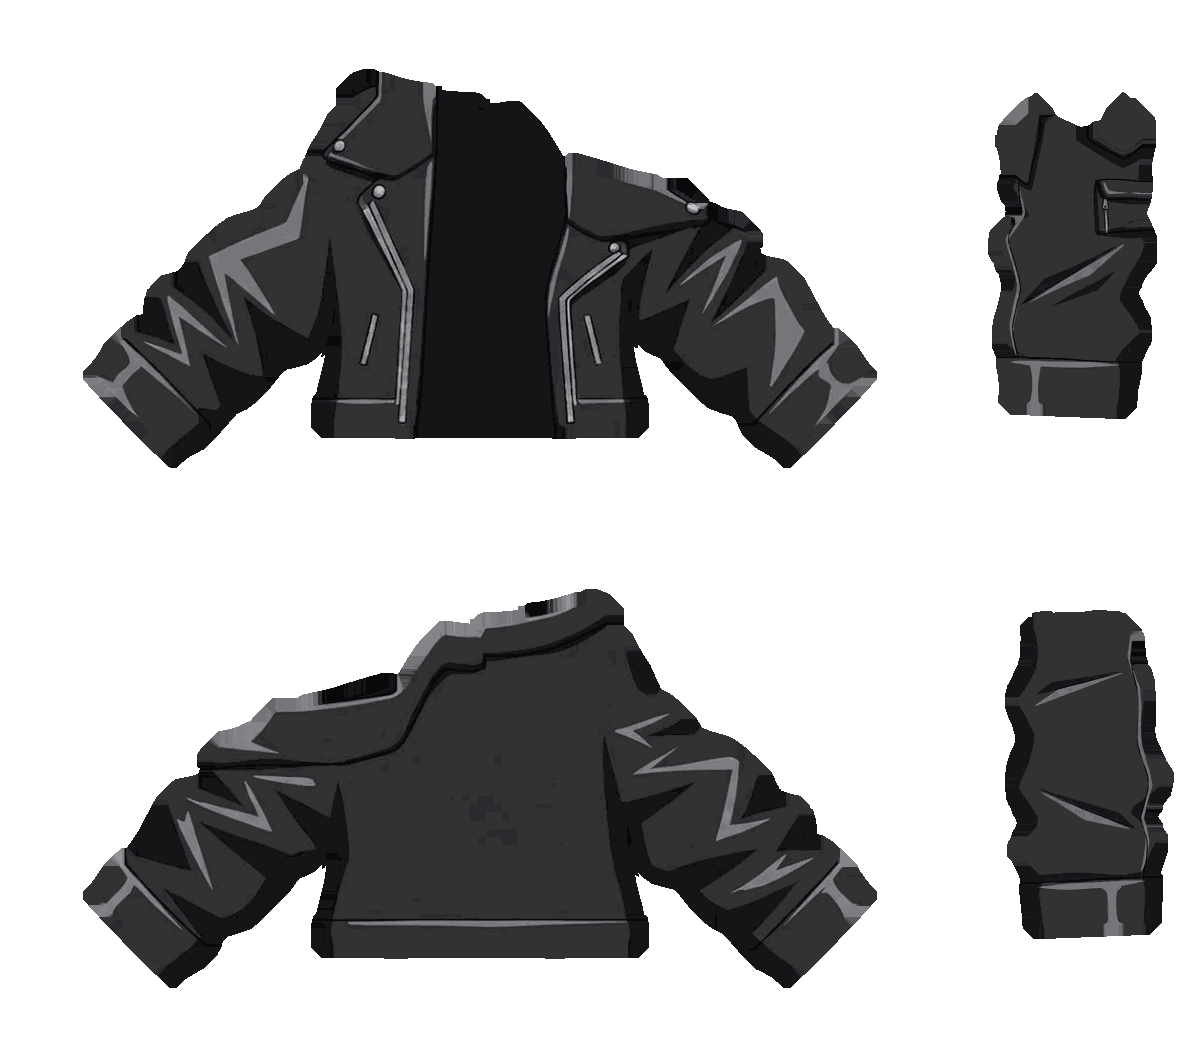
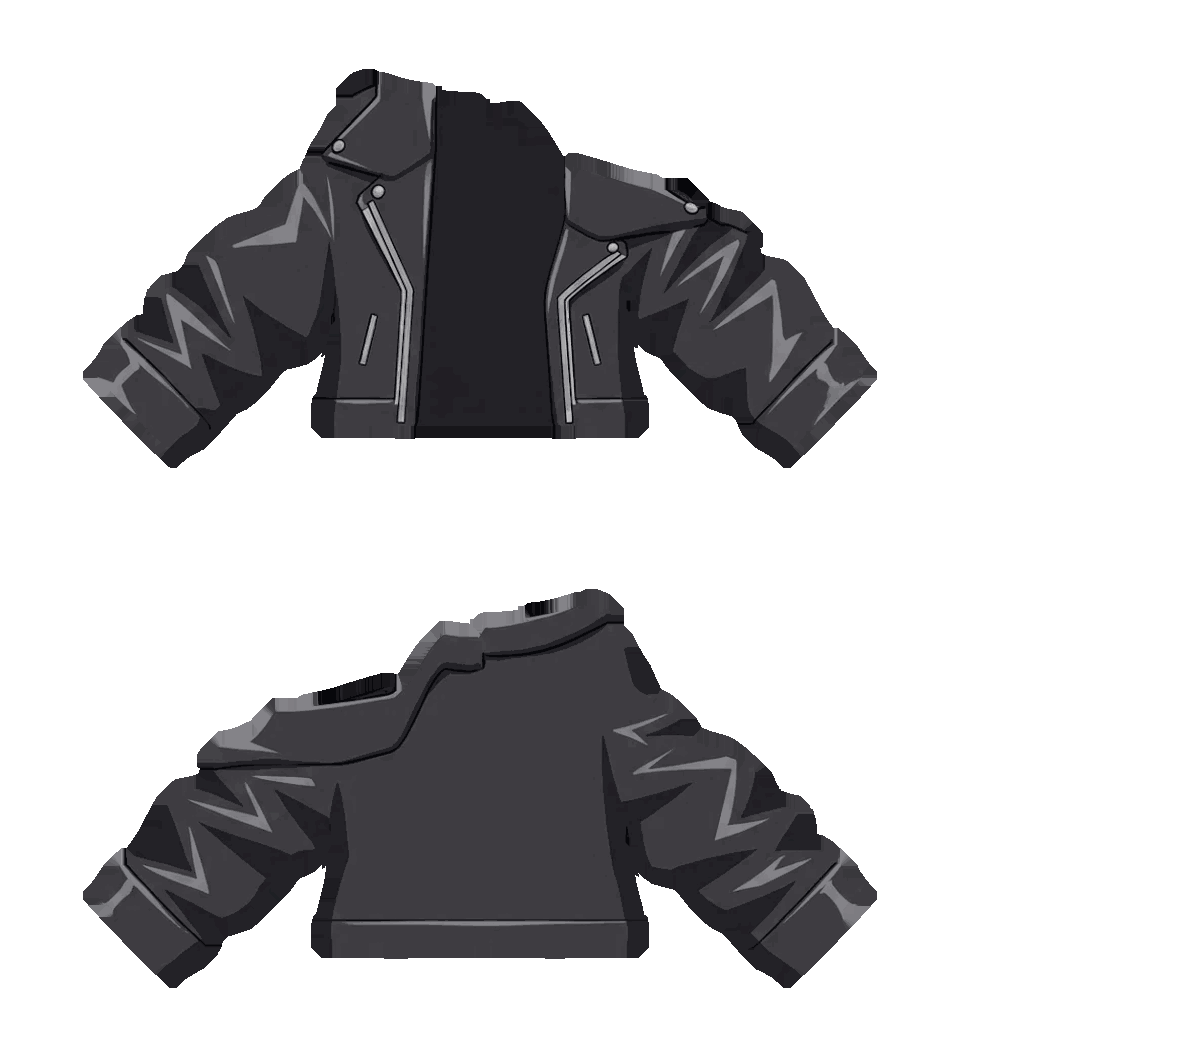
Subaru's jacket picture back to the first Gemini painting (front and back only, side views clear; metal stays off, so its zips no longer show double); a side view is used only where it is drawn, and the sleeves' blend back to 0.35-0.65 (the narrow band showed a cut)

diff --git a/src/materials.js b/src/materials.js
@@ -124,7 +124,7 @@ vec4 tSample() {
  *  (when the side width isn't 0) its +x side (above) and its -x side (below), each seen square on along U.axes (per side [ox, oy, dx, dy]: the
  *  view's top and the way down it, in the xy plane; across it is z). Projected from picP / picN, each vertex's base place and normal when
  *  made (it moves with the pose). Front and back blend where the surface turns sideways (U.soft: the normal's z over which they do); a side
- *  view takes over where the surface faces it and picS (per vertex, 0..1: the sleeves) says so.
+ *  view takes over where the surface faces it and picS (per vertex, 0..1: the sleeves) says so, and only where it is drawn (left clear: front and back stay).
  *  The map is premultiplied (no dark fringe round strokes).
  *  U: { on, map, frame (vec4), opacity, blend (0 = over, 1 = multiply), soft } as shared uniforms. */
 export function withPicture(m, U) {
@@ -146,7 +146,7 @@ vec4 dLin(vec4 c) { return vec4(pow(c.rgb / max(c.a, 1e-4), vec3(2.2)) * c.a, c.
     vec4 dax = vPicP.x > 0.0 ? dAxes[0] : dAxes[1];
     vec4 dc = mix(dLin(texture2D(dMap, vec2((1.0 - q.x) * dfx, 0.5 * q.y))), dLin(texture2D(dMap, vec2(q.x * dfx, 0.5 + 0.5 * q.y))), smoothstep(-dSoft, dSoft, dn.z));
     vec4 ds = dLin(texture2D(dMap, vec2(dfx + clamp(0.5 - dsg * vPicP.z / (2.0 * max(dFrame.w, 1e-4)), 0.006, 0.994) * (1.0 - dfx), (dsd + clamp(1.0 - dot(vPicP.xy - dax.xy, dax.zw) / (dFrame.z - dFrame.y), 0.004, 0.996)) * 0.5)));
-    dc = mix(dc, ds, dFrame.w > 0.0 ? vPicS * smoothstep(0.47, 0.53, dsg * dot(dn.xy, vec2(-dax.w, dax.z))) : 0.0) * dOpacity;
+    dc = mix(dc, ds, dFrame.w > 0.0 ? vPicS * ds.a * smoothstep(0.35, 0.65, dsg * dot(dn.xy, vec2(-dax.w, dax.z))) : 0.0) * dOpacity;
     diffuseColor.rgb = dBlend > 0.5 ? diffuseColor.rgb * (1.0 - dc.a) + diffuseColor.rgb * dc.rgb : diffuseColor.rgb * (1.0 - dc.a) + dc.rgb; }`); };
   m.customProgramCacheKey = () => "pic|" + key;
   return m;

diff --git a/DESIGN.md b/DESIGN.md
@@ -212,7 +212,7 @@ Still missing in the engine before the editor: `avatar.rebuild()` (today a body 
 Clothes get pictures the way the face does. Three layers, bottom to top:
 1. **Base color** (exists).
 2. **Pattern**: stripes, checks, dots… drawn in the shader from the angle around the body and the height (like the hair strands), so no texture and no UVs.
-3. **Drawn picture** (`outfit.jacket.picture: { src, opacity, blend }`, `avatar.setPicture`, `withPicture` in materials.js): one image of views, projected from each vertex's base place (`picP`: it moves with the pose, and 1 px is the same cloth whatever the body's proportions). Left column: the part from the front (above) and the back (below), along z. Right column: the side views, her left (above) and right (below); for the jacket each sleeve seen square on from outside along its own axis (seen from the body's side, a sleeve in the A-pose points at the eye and the trunk hides behind it), used only on the sleeves (`picS` per vertex) where the surface faces that view. So a sleeve's outer side isn't the front and back pictures stretched, and what sits there (the pocket on スバル's upper arm) can be drawn. A part takes one by `picture: { frame, side }` in its definePart (⛔ changing a frame moves every picture drawn so far); its material is dressed only once a src is set, so a part without one keeps its plain shader. The template is `pictureTemplate(avatar, part)` (src/picture.js; `node tools/picture.mjs <preset>`): draw on a layer over it and save that layer alone. スバル's is two paintings Gemini made of the template on white (`--paper 1`: the front and back, then the two sleeves side by side with the first painting as the style reference), put together and fitted back by `tools/picture-fit.py` (the painting's outline and paper left out, the inside's colors spread to the rim); a file (img/presets/), so a `?o=` link holds only its address. Its zips and snaps are in the picture (`metal.on` false: the part's ribbons over painted ones showed double). ⛔ A picture made from the shape's own light and creases (cut into planes) read as blotches, not as drawn leather. Not yet: the editor's export / load buttons, other garments.
+3. **Drawn picture** (`outfit.jacket.picture: { src, opacity, blend }`, `avatar.setPicture`, `withPicture` in materials.js): one image of views, projected from each vertex's base place (`picP`: it moves with the pose, and 1 px is the same cloth whatever the body's proportions). Left column: the part from the front (above) and the back (below), along z. Right column: the side views, her left (above) and right (below); for the jacket each sleeve seen square on from outside along its own axis (seen from the body's side, a sleeve in the A-pose points at the eye and the trunk hides behind it), used only on the sleeves (`picS` per vertex) where the surface faces that view. So a sleeve's outer side isn't the front and back pictures stretched, and what sits there (a pocket) can be drawn; where a side view is left clear, the front and back ones stay. A part takes one by `picture: { frame, side }` in its definePart (⛔ changing a frame moves every picture drawn so far); its material is dressed only once a src is set, so a part without one keeps its plain shader. The template is `pictureTemplate(avatar, part)` (src/picture.js; `node tools/picture.mjs <preset>`): draw on a layer over it and save that layer alone. スバル's is one painting Gemini made of the template on white (`--paper 1`: the front and back), fitted back by `tools/picture-fit.py` (the painting's outline and paper left out, the inside's colors spread to the rim), its side views left clear; a file (img/presets/), so a `?o=` link holds only its address. ⛔ Sleeves painted apart from the side met the front painting along a visible cut (a wide blend left its folds as half see-through streaks): paint the sides with the front, or leave them clear. Its zips and snaps are in the picture (`metal.on` false: the part's ribbons over painted ones showed double). ⛔ A picture made from the shape's own light and creases (cut into planes) read as blotches, not as drawn leather. Not yet: the editor's export / load buttons, other garments.
 
 The garments have no UVs (surface nets); layers 2 and 3 are projections, so they don't need any. At the sides the two halves of a drawn picture are blended by the base normal's z (over ±0.35), so a picture must carry the same tone on both there. Along the trunk's sides the picture is stretched (a projection): keep fine detail off them. Where a sleeve's side view meets the front or back one (the normal 0.35–0.65 toward the view) two different drawings cross-fade.
 
